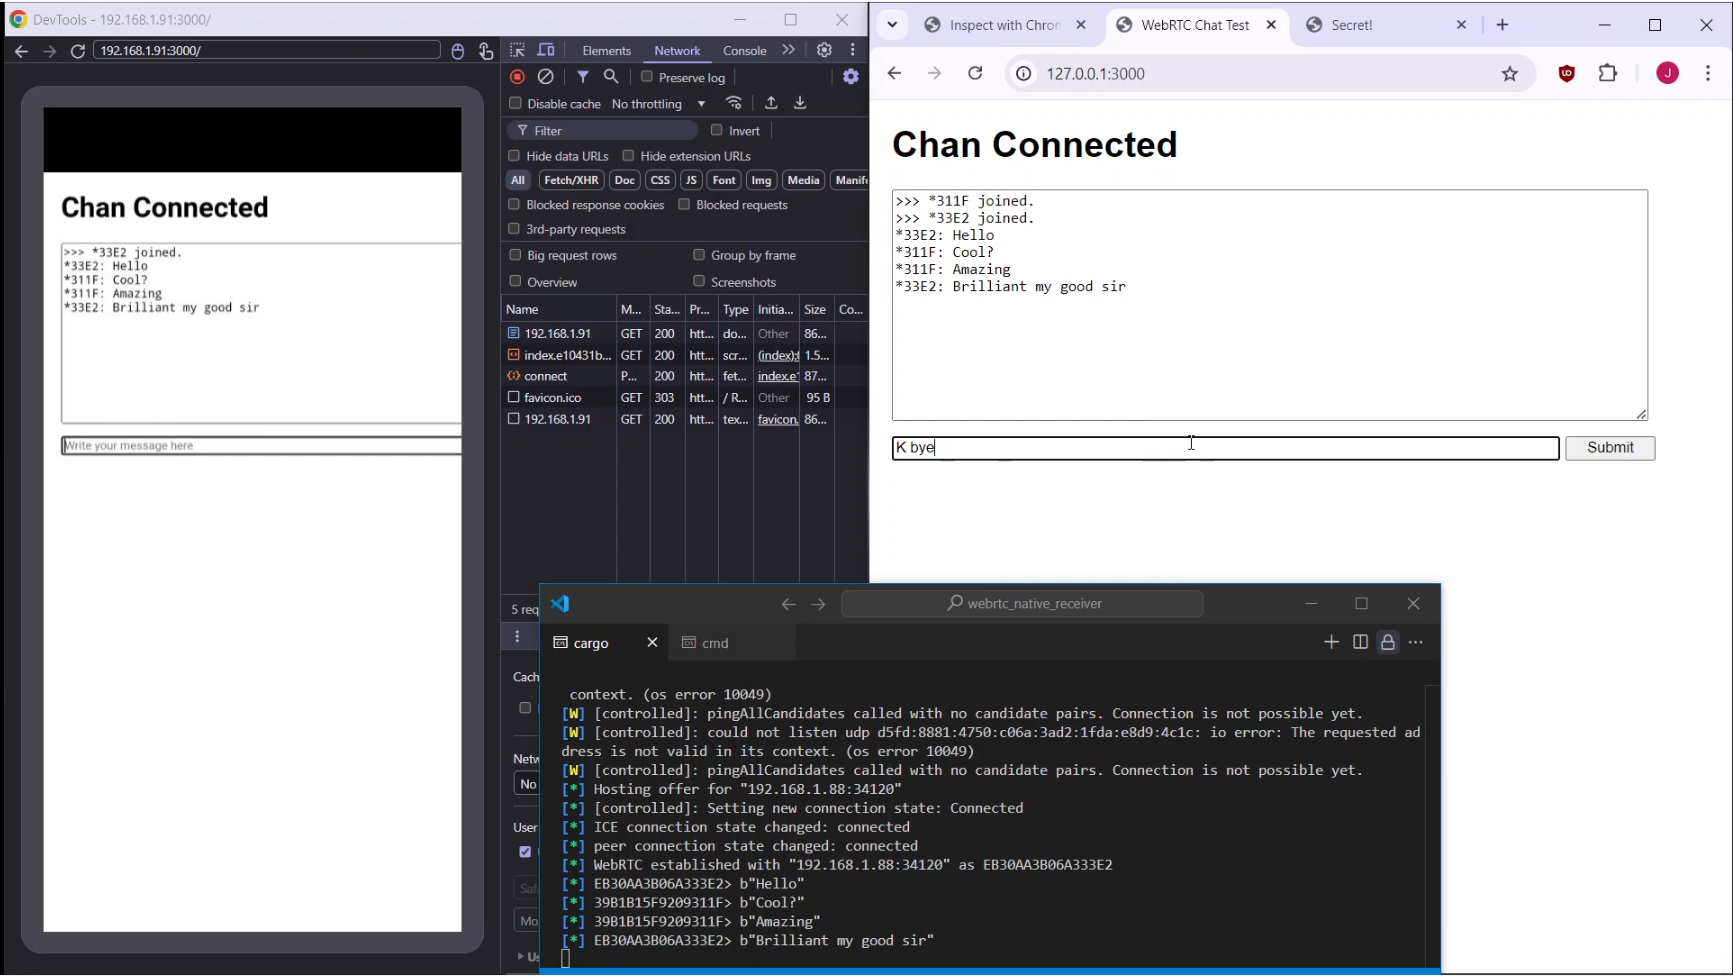
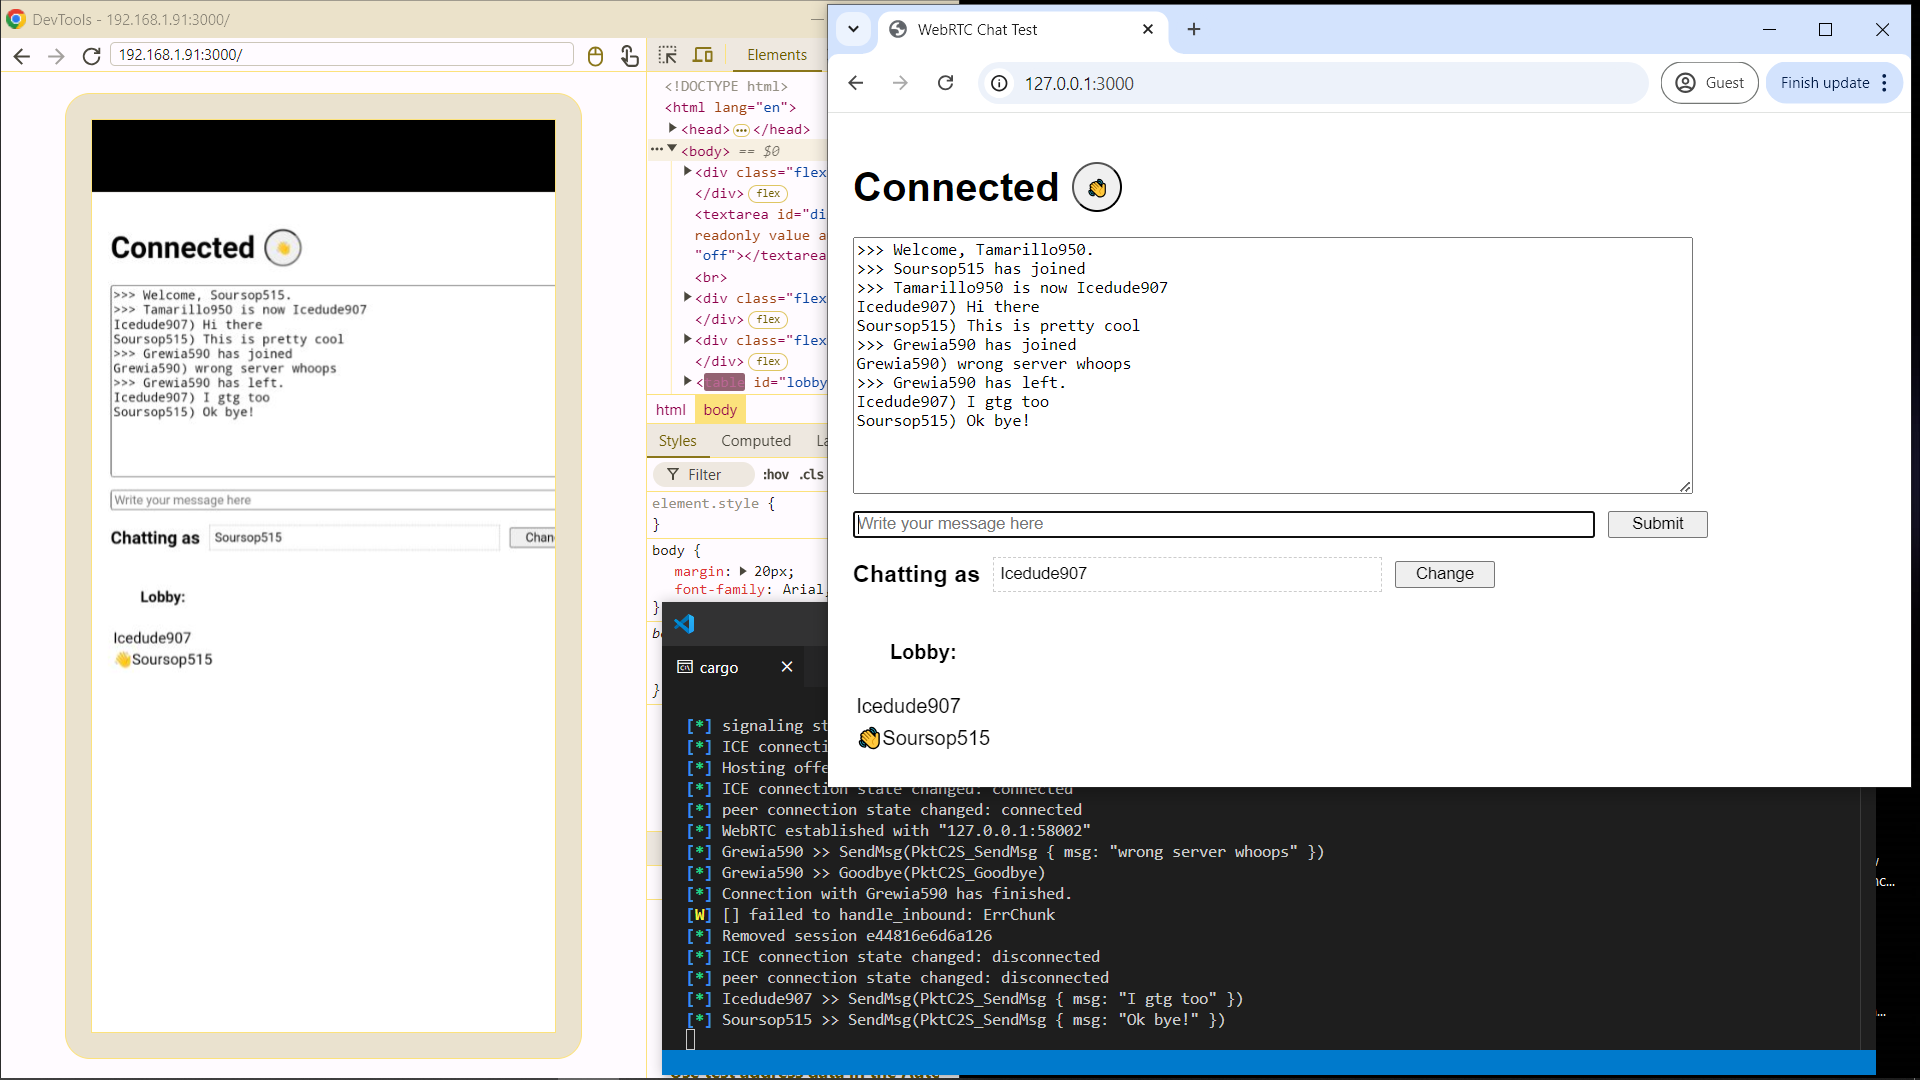
Update readme

diff --git a/webclient/src/index.ts b/webclient/src/index.ts
@@ -62,10 +62,10 @@ class Session{
     }
     // Destroy the connection and the session on page close
     public shutdown(){
+        clearInterval(this.periodic_pinger);
         this.conn.send(packet.encode_C2S_Goodbye());
         this.conn.disconnect();
         sess = undefined;
-        clearInterval(this.periodic_pinger);
     }
 
     public send_message(message: string){

diff --git a/README.md b/README.md
@@ -86,6 +86,7 @@ C2S (client to server)
 - `2`; Set name
     - `exhaustive_str` name
 - `3`; Goodbye. Ends the existing session
+- `4`; (Unreliable). Wave button. 1/true indicates waving, 0/false indicates released. Sends 10x per second.
 
 S2C (server to client)
 - `0`; HelloReply
